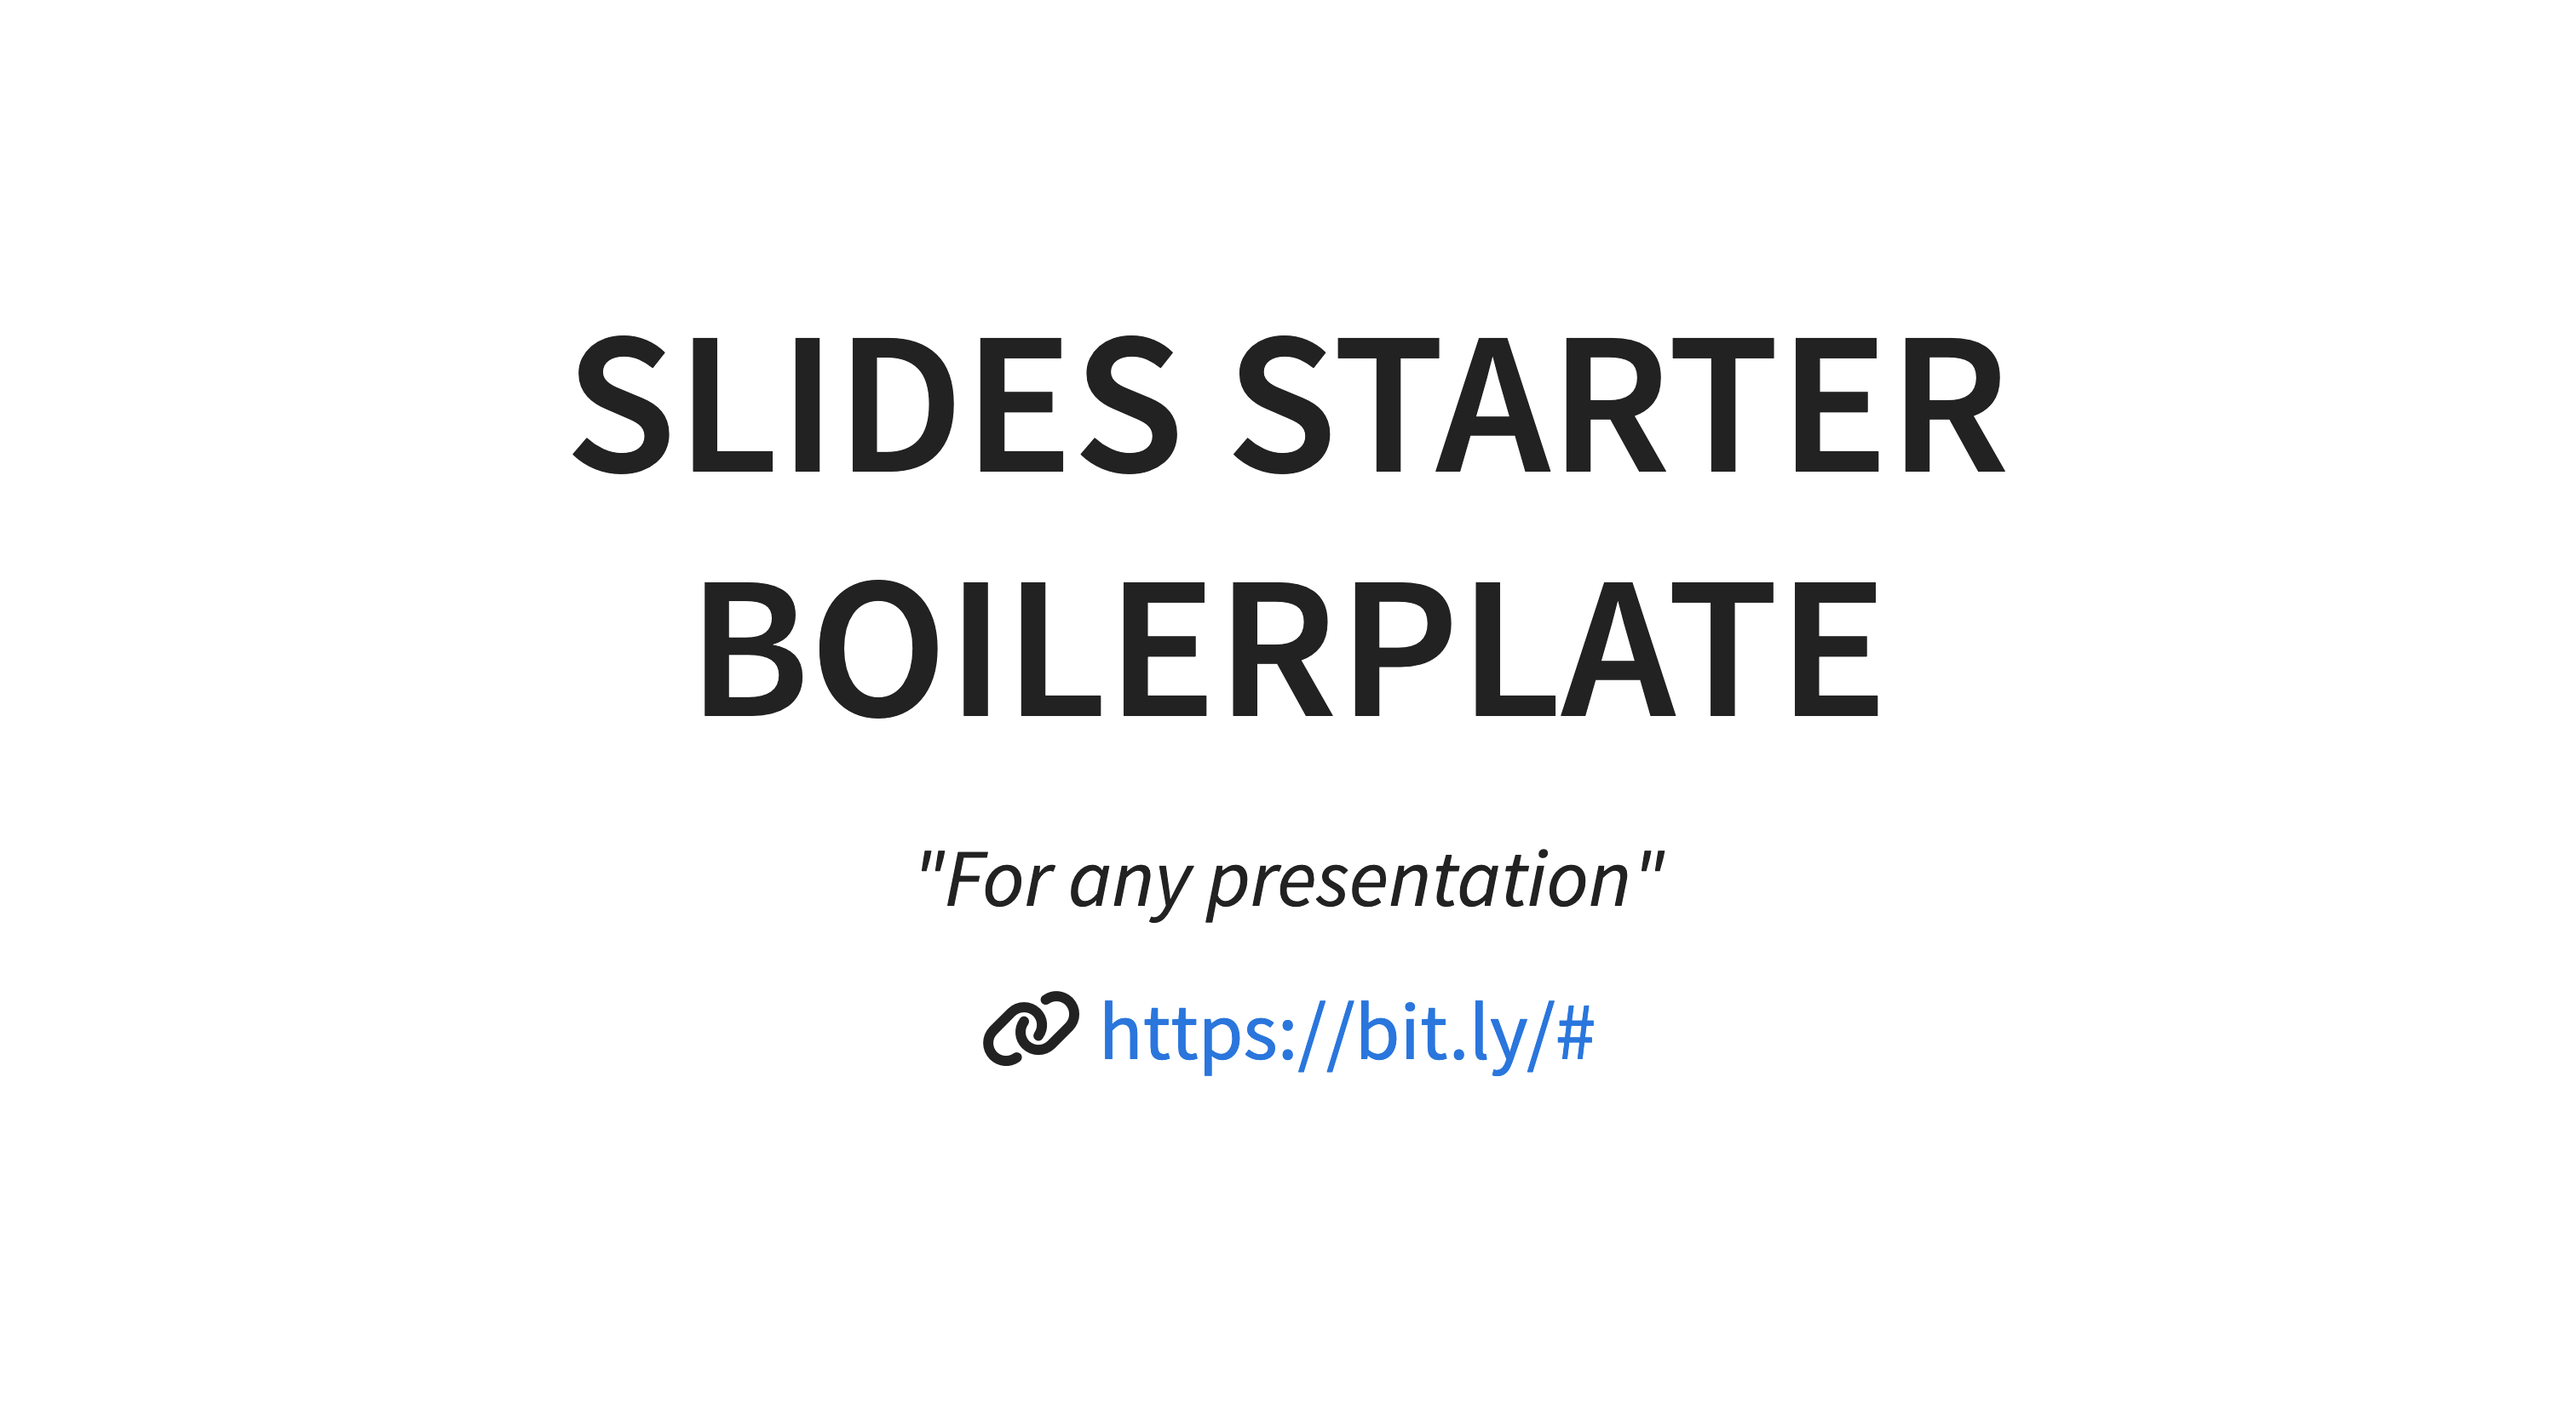
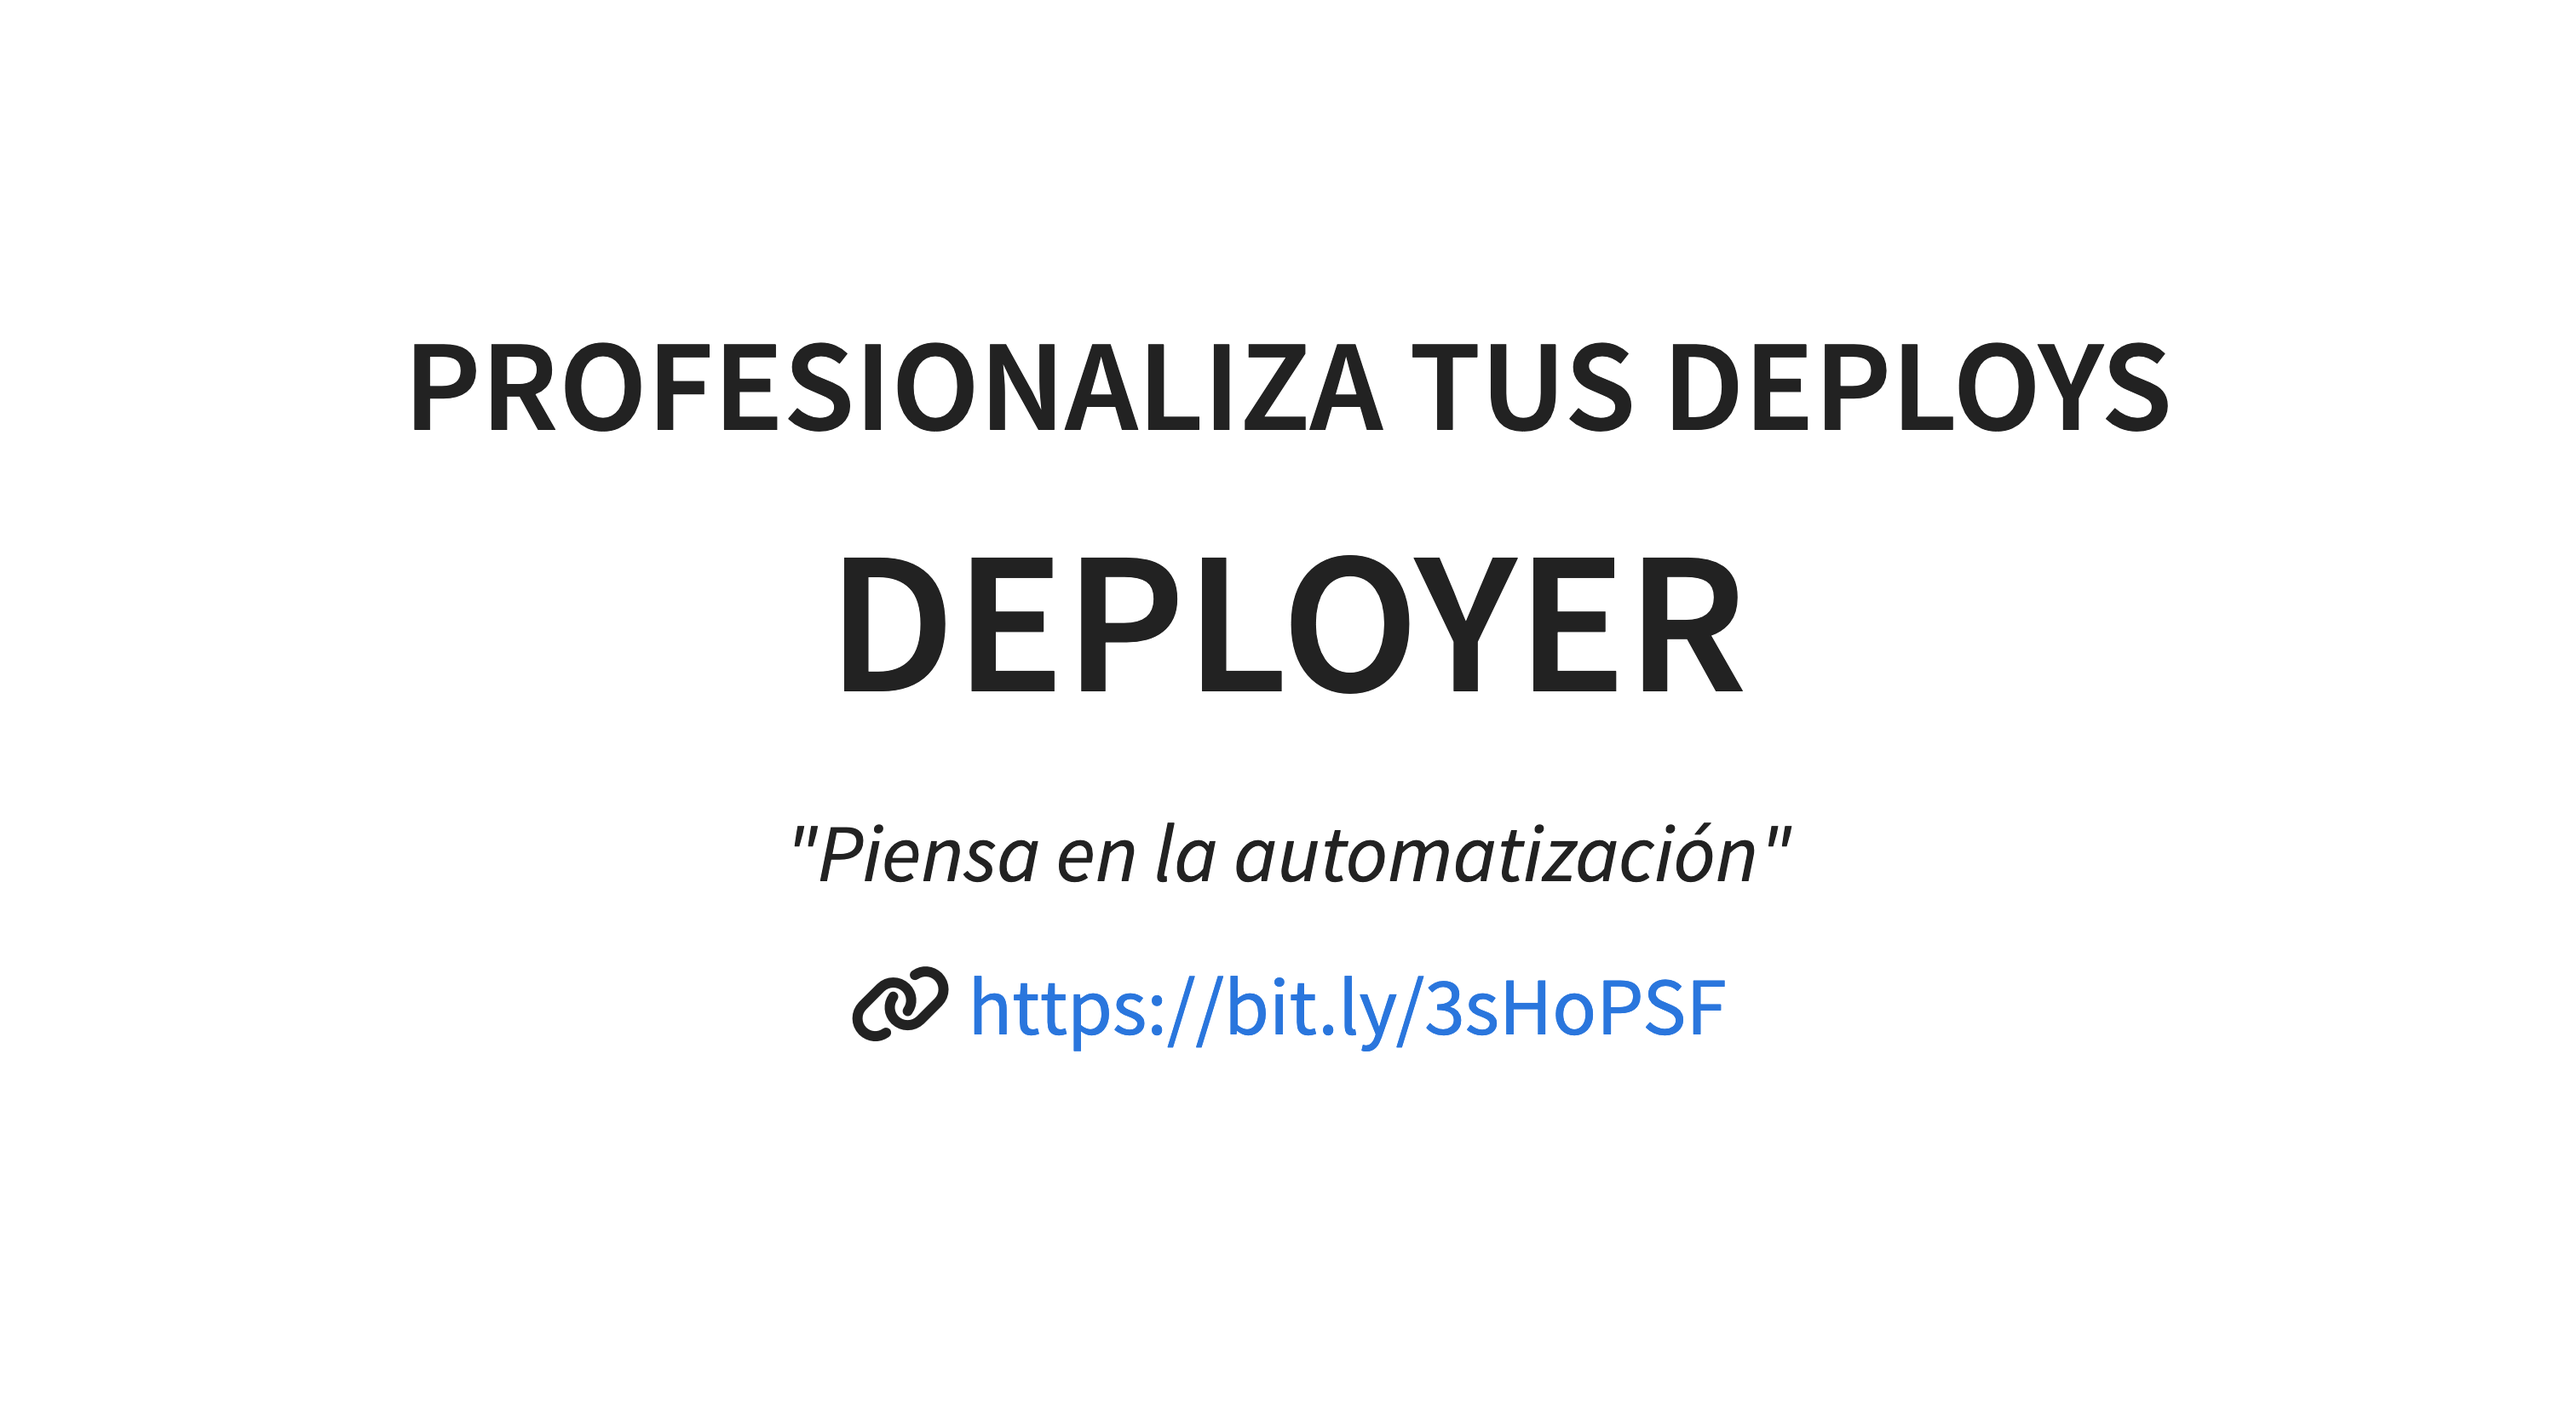
feat(slides): update head html code and add image share

diff --git a/public/index.html b/public/index.html
@@ -1,5 +1,5 @@
 <!doctype html>
-<html lang="en-GB" prefix="og: https://ogp.me/ns#">
+<html lang="es-ES" prefix="og: https://ogp.me/ns#">
 	<head>
 		<!-- Assets -->
 		<meta charset="utf-8">
@@ -8,9 +8,9 @@
 		<meta name="apple-mobile-web-app-status-bar-style" content="black-translucent">
 		<meta name="viewport" content="width=device-width, initial-scale=1.0, maximum-scale=1.0, user-scalable=no">
 		<!-- Title -->
-		<title>Slides starter boilerplate by @jjpeleato</title>
+		<title>Profesionaliza tus deploys con Deployer by @jjpeleato</title>
 		<!-- Information -->
-		<meta name="description" content="Slides starter boilerplate by @jjpeleato">
+		<meta name="description" content="Deployer, la herramienta de despliegues para PHP by @jjpeleato">
 		<meta name="author" content="@jjpeleato">
 		<!-- Datetime -->
 		<meta name="content_origin" content="2023-05-10">
@@ -19,17 +19,17 @@
 		<!-- Social media -->
 		<meta property="og:locale" content="en_GB">
 		<meta property="og:type" content="website">
-		<meta property="og:site_name" content="Slides starter boilerplate">
-		<meta property="og:title" content="Slides starter boilerplate">
-		<meta property="og:description" content="Slides starter boilerplate by @jjpeleato">
-		<meta property="og:url" content="https://example.com/">
-		<meta property="og:image" content="https://example.com/image-share.png">
+		<meta property="og:site_name" content="Profesionaliza tus deploys con Deployer">
+		<meta property="og:title" content="Profesionaliza tus deploys con Deployer">
+		<meta property="og:description" content="Deployer, la herramienta de despliegues para PHP">
+		<meta property="og:url" content="https://jjpeleato.com/courses/deployer/">
+		<meta property="og:image" content="https://jjpeleato.com/courses/deployer/image-share.png">
 		<meta name="twitter:card" content="summary">
-		<meta name="twitter:title" content="Slides starter boilerplate">
-		<meta name="twitter:description" content="Slides starter boilerplate by @jjpeleato">
+		<meta name="twitter:title" content="Profesionaliza tus deploys con Deployer">
+		<meta name="twitter:description" content="Deployer, la herramienta de despliegues para PHP">
 		<meta name="twitter:site" content="@jjpeleato">
 		<meta name="twitter:creator" content="@jjpeleato">
-		<meta name="twitter:image" content="https://example.com/image-share.png">
+		<meta name="twitter:image" content="https://jjpeleato.com/courses/deployer/image-share.png">
 		<!-- Geolocation -->
 		<meta name="geo.region" content="ES-AR">
 		<meta name="geo.placename" content="Huesca">
@@ -50,7 +50,7 @@
 		<!-- Plus CSS-->
 		<link rel="stylesheet" href="assets/css/style.css">
 	</head>
-	<body oncontextmenu="return true" onkeydown="return true">
+	<body oncontextmenu="return false" onkeydown="return false">
 		<div class="reveal">
 			<div class="slides">
 				<!-- Workshop presentation -->
